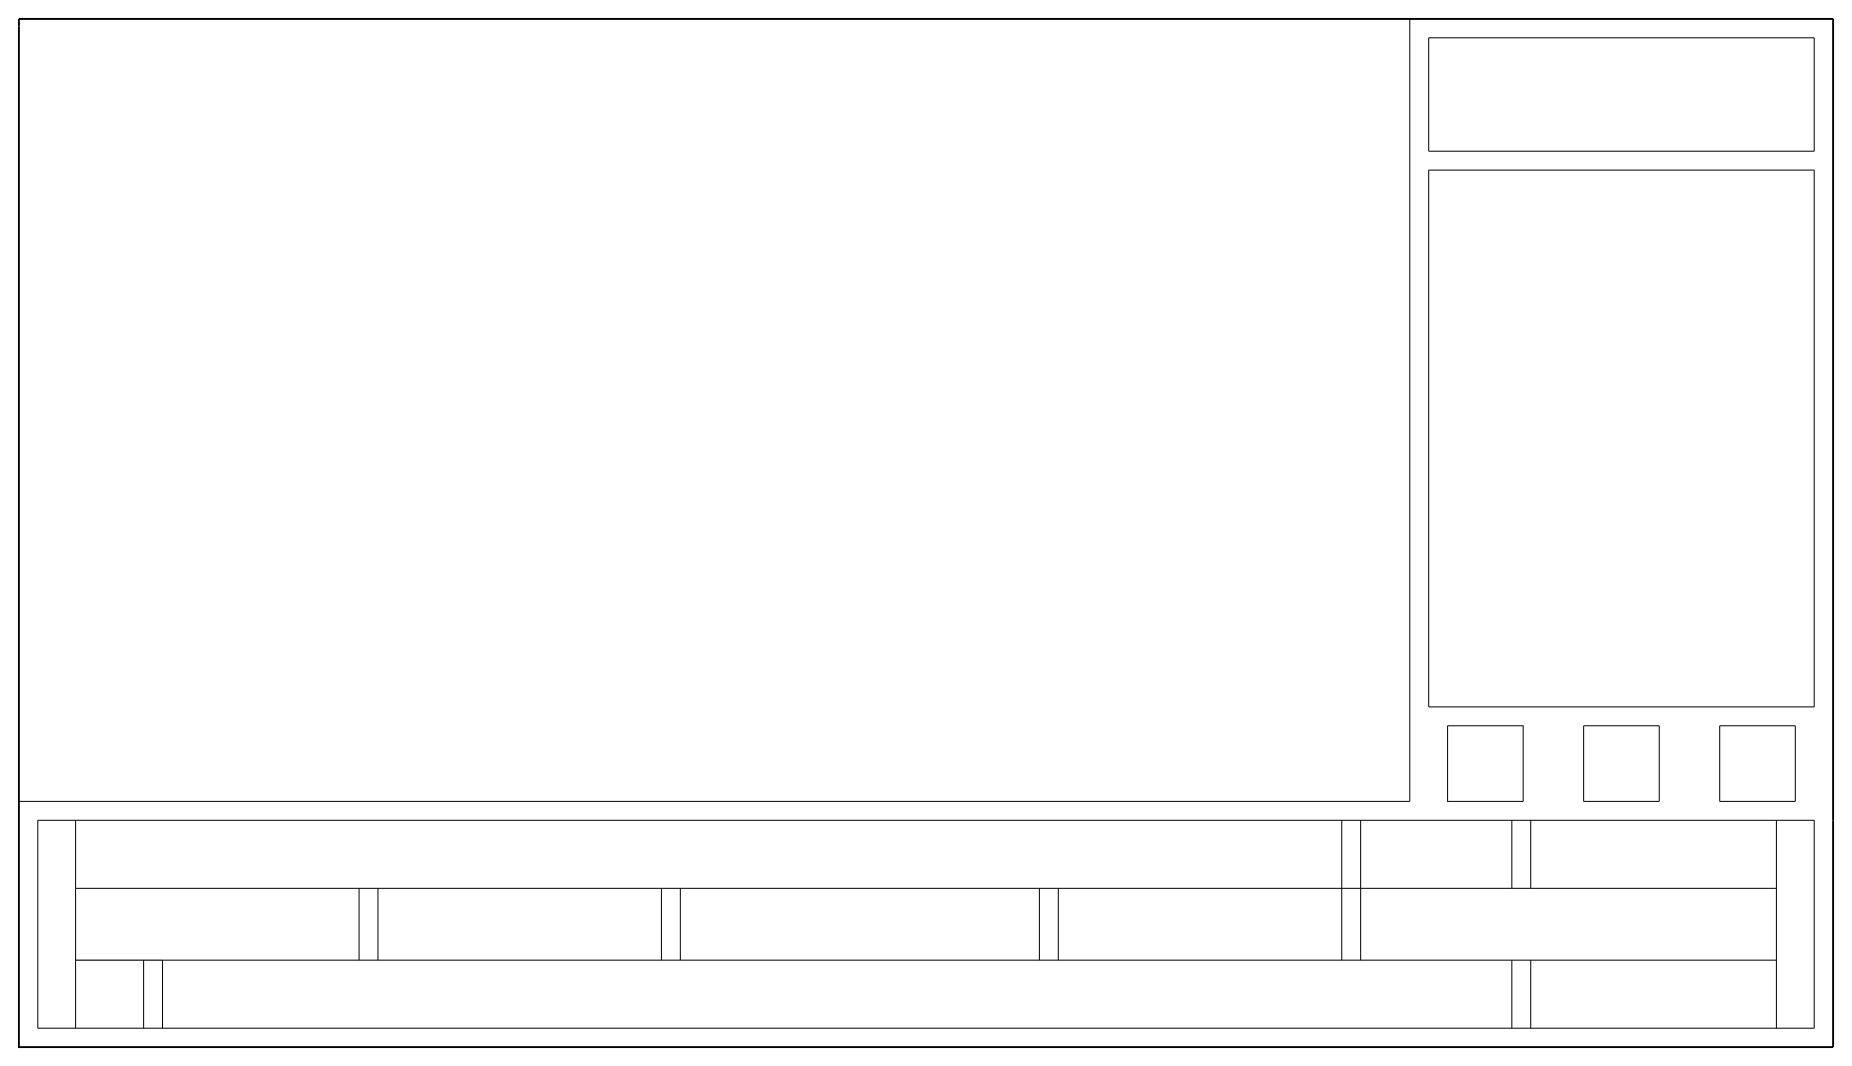
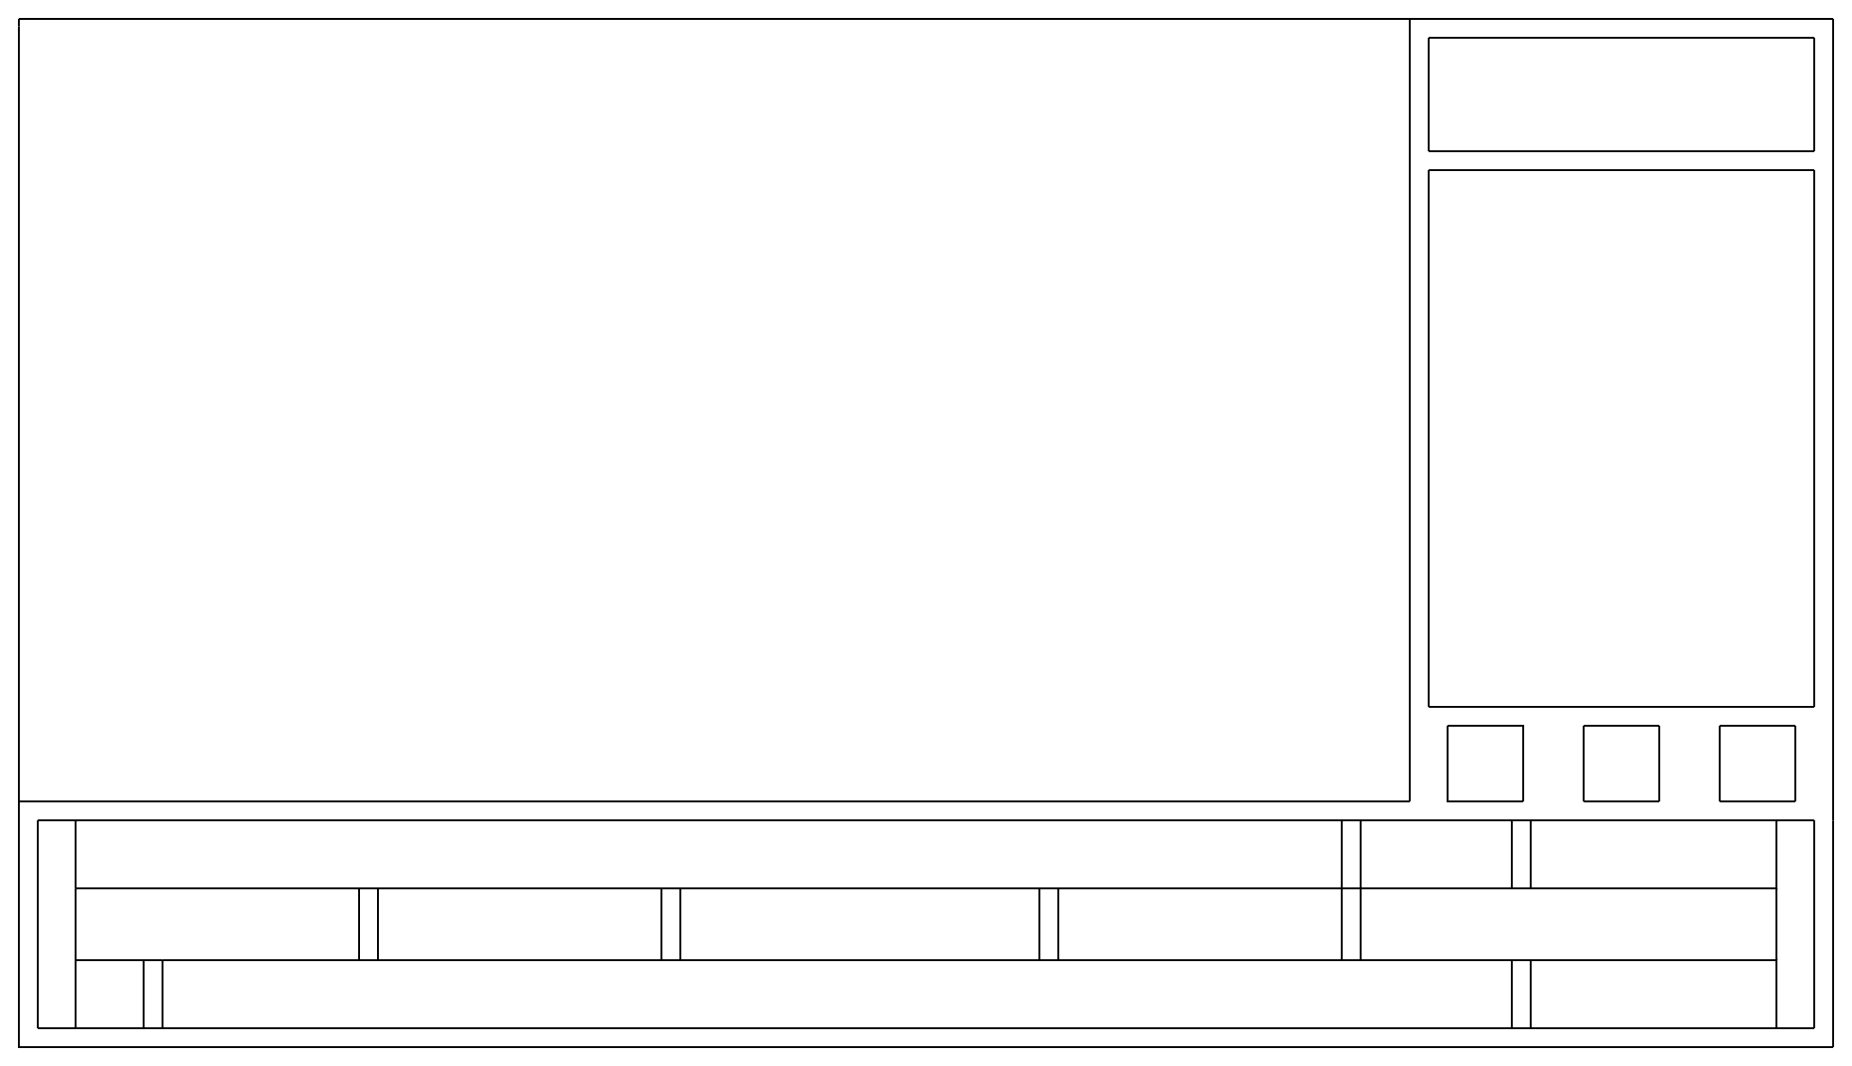
update README

diff --git a/README.md b/README.md
@@ -2,7 +2,10 @@
 
 > a micro video player on mini210s using mplayer-core
 
-详细介绍在```./documentation.md```
+详细介绍在`./documentation.md`
+
+程序整体GUI设计存储在`./gui-inkscape.svg`中(内嵌Inkscape特殊格式)
+![](https://github.com/ownia/mplayer-demo/raw/master/gui.png)
 
 compiler文件目录：
 ```
